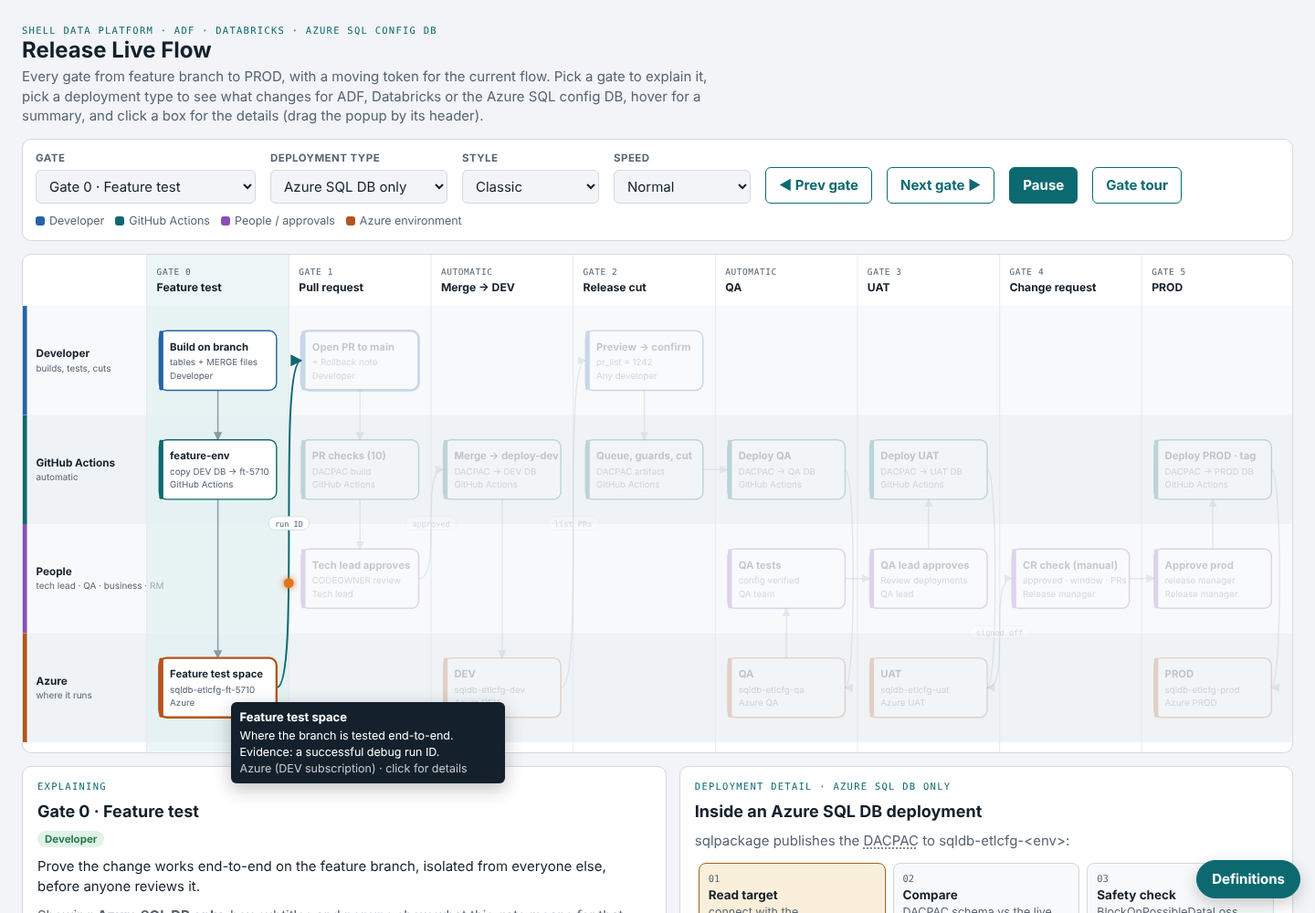
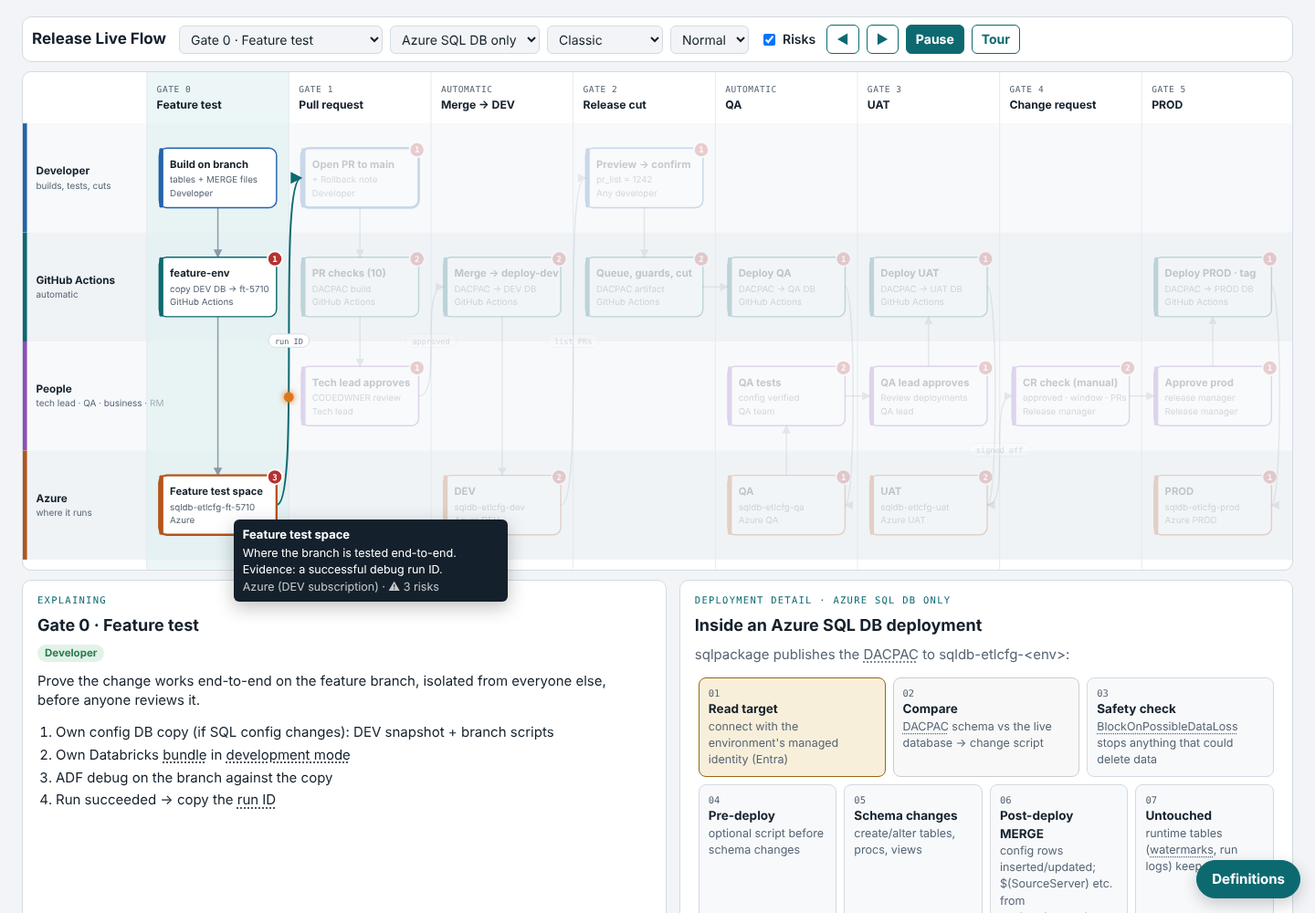
Live Flow: slim sticky control bar, risk layer and risk register
- One-line control bar; removed instructional text
- Risk badges on boxes; risks shown in popups; register of 33 risks filtered by gate and deployment type
  (what goes wrong, who waits, signal, prevent, fix fast, Decided/Proposed/Open)
- 'Who waits on whom' table and a playbook for unforeseen issues

Claude-Session: https://claude.ai/code/session_01T7iXQu7f6WF4FeQnuXfwTu

diff --git a/live-flow/index.html b/live-flow/index.html
@@ -43,19 +43,24 @@
 *{box-sizing:border-box}
 [hidden]{display:none!important}
 body{background:var(--bg);color:var(--ink);font-family:var(--f-body);font-size:15px;line-height:1.45;
-  padding-left:max(16px,env(safe-area-inset-left,0px));padding-right:max(16px,env(safe-area-inset-right,0px));padding-block:18px 90px}
+  padding-left:max(16px,env(safe-area-inset-left,0px));padding-right:max(16px,env(safe-area-inset-right,0px));padding-block:10px 90px}
+body::before{content:"";position:fixed;inset:0 0 auto;height:env(safe-area-inset-top,0px);z-index:21;background:var(--bg)}
 h1,h2,h3{font-family:var(--f-display);margin:0;line-height:1.15;text-wrap:balance}
 h1{font-size:24px} h2{font-size:18px} h3{font-size:15px}
 button,select{font:inherit;color:inherit}
 :focus-visible{outline:2px solid var(--accent);outline-offset:2px}
-.wrap{max-width:1560px;margin:0 auto;display:grid;gap:14px}
+.wrap{max-width:1560px;margin:0 auto;display:grid;gap:10px}
 .wrap>*{min-width:0}
 .eb{font-family:var(--f-mono);font-size:10.5px;letter-spacing:.12em;text-transform:uppercase;color:var(--accent)}
 .lede{color:var(--muted);margin:4px 0 0;max-width:80ch}
 .mono{font-family:var(--f-mono);font-size:.86em}
 
 /* controls */
-.controls{display:flex;flex-wrap:wrap;gap:10px 16px;align-items:end;background:var(--surface);border:1px solid var(--line);border-radius:10px;padding:12px 14px}
+.controls{display:flex;flex-wrap:wrap;gap:8px;align-items:center;background:var(--surface);border:1px solid var(--line);border-radius:10px;padding:8px 10px;position:sticky;top:env(safe-area-inset-top,0px);z-index:20}
+.controls h1{font-size:17px;margin-right:6px;white-space:nowrap}
+.controls select{min-width:0;padding:5px 8px;font-size:14px}
+.btn.sm{padding:5px 10px;font-size:14px}
+.tog{display:flex;gap:5px;align-items:center;font-size:14px;font-weight:600;padding:0 4px}
 .ctl{display:grid;gap:4px}
 .ctl label{font-size:11.5px;font-weight:700;color:var(--muted);letter-spacing:.04em;text-transform:uppercase}
 select{border:1px solid var(--line);background:var(--bg);border-radius:6px;padding:7px 10px;min-width:150px}
@@ -137,30 +142,37 @@ abbr.g{text-decoration:underline dotted;text-underline-offset:3px;cursor:help}
 .def{border-bottom:1px solid var(--line);padding-bottom:8px}
 .def b{font-family:var(--f-display);font-size:14px}
 .def p{margin:2px 0 0;font-size:13.5px;color:var(--muted)}
+.rbadge{cursor:pointer}
+.rbadge circle{fill:var(--bad);stroke:var(--surface);stroke-width:2}
+.rbadge text{font-family:var(--f-mono);font-size:10px;font-weight:700;fill:#fff;text-anchor:middle}
+.risks-off .rbadge{display:none}
+.rgrid{display:grid;grid-template-columns:repeat(auto-fill,minmax(300px,1fr));gap:10px}
+.risk{border:1px solid var(--line);border-left:4px solid var(--bad);border-radius:8px;padding:10px 12px;display:grid;gap:6px;background:var(--lane);font-size:13.5px}
+.risk h3{font-size:14.5px;display:flex;gap:8px;align-items:baseline;flex-wrap:wrap}
+.risk .rid{font-family:var(--f-mono);font-size:11px;color:var(--muted)}
+.risk dl{display:grid;grid-template-columns:auto 1fr;gap:3px 10px;margin:0}
+.risk dt{font-weight:700;color:var(--muted);font-size:12px;text-transform:uppercase;letter-spacing:.04em;padding-top:1px}
+.risk dd{margin:0} .risk ul{margin:0;padding-left:16px}
+.pill.open{background:var(--bad-bg);color:var(--bad)} .pill.prop{background:var(--warn-bg);color:var(--warn)} .pill.dec{background:var(--ok-bg);color:var(--ok)}
+.twocol{display:grid;grid-template-columns:minmax(0,1fr) minmax(0,1fr);gap:12px}
+@media (max-width:900px){.twocol{grid-template-columns:1fr}}
+table.w{width:100%;border-collapse:collapse;font-size:13.5px} table.w th{text-align:left;font-size:11px;text-transform:uppercase;letter-spacing:.05em;color:var(--muted);padding:5px;border-bottom:1px solid var(--line)} table.w td{padding:6px 5px;border-bottom:1px solid var(--line);vertical-align:top}
+.rfilter{display:flex;gap:8px;flex-wrap:wrap;align-items:center}
 @media (prefers-reduced-motion: reduce){*{transition:none!important}}
 </style>
 
 <div class="wrap">
-  <header>
-    <div class="eb">Shell data platform · ADF · Databricks · Azure SQL config DB</div>
-    <h1>Release Live Flow</h1>
-    <p class="lede">Every gate from feature branch to PROD, with a moving token for the current flow. Pick a gate to explain it, pick a deployment type to see what changes for ADF, Databricks or the Azure SQL config DB, hover for a summary, and click a box for the details (drag the popup by its header).</p>
-  </header>
-
   <div class="controls" role="group" aria-label="View options">
-    <div class="ctl"><label for="gateSel">Gate</label><select id="gateSel"></select></div>
-    <div class="ctl"><label for="typeSel">Deployment type</label>
-      <select id="typeSel"><option value="all">All three (full release)</option><option value="adf">ADF only</option><option value="dbx">Databricks only</option><option value="sql">Azure SQL DB only</option></select></div>
-    <div class="ctl"><label for="styleSel">Style</label>
-      <select id="styleSel"><option value="classic">Classic</option><option value="blueprint">Blueprint</option><option value="contrast">High contrast</option></select></div>
-    <div class="ctl"><label for="speedSel">Speed</label>
-      <select id="speedSel"><option value="0.6">Slow</option><option value="1" selected>Normal</option><option value="1.8">Fast</option></select></div>
-    <button class="btn ghost" id="prevBtn" title="Previous gate">◀ Prev gate</button>
-    <button class="btn ghost" id="nextBtn" title="Next gate">Next gate ▶</button>
-    <button class="btn" id="playBtn">Pause</button>
-    <button class="btn ghost" id="tourBtn" title="Walk through every gate automatically">Gate tour</button>
-    <div class="spacer"></div>
-    <div class="legend"><span><i style="background:var(--dev)"></i>Developer</span><span><i style="background:var(--auto)"></i>GitHub Actions</span><span><i style="background:var(--ppl)"></i>People / approvals</span><span><i style="background:var(--env)"></i>Azure environment</span></div>
+    <h1>Release Live Flow</h1>
+    <select id="gateSel" aria-label="Gate"></select>
+    <select id="typeSel" aria-label="Deployment type"><option value="all">All three</option><option value="adf">ADF only</option><option value="dbx">Databricks only</option><option value="sql">Azure SQL DB only</option></select>
+    <select id="styleSel" aria-label="Style"><option value="classic">Classic</option><option value="blueprint">Blueprint</option><option value="contrast">High contrast</option></select>
+    <select id="speedSel" aria-label="Speed"><option value="0.6">Slow</option><option value="1" selected>Normal</option><option value="1.8">Fast</option></select>
+    <label class="tog"><input type="checkbox" id="riskTog" checked> Risks</label>
+    <button class="btn ghost sm" id="prevBtn" title="Previous gate" aria-label="Previous gate">◀</button>
+    <button class="btn ghost sm" id="nextBtn" title="Next gate" aria-label="Next gate">▶</button>
+    <button class="btn sm" id="playBtn">Pause</button>
+    <button class="btn ghost sm" id="tourBtn">Tour</button>
   </div>
 
   <div class="canvas"><svg id="flow" role="img" aria-label="Release flow swimlane diagram"></svg></div>
@@ -169,6 +181,7 @@ abbr.g{text-decoration:underline dotted;text-underline-offset:3px;cursor:help}
     <section class="panel" aria-live="polite" id="explain"></section>
     <section class="panel" id="inside"></section>
   </div>
+  <section class="panel" id="risks"></section>
 </div>
 
 <div class="tip" id="tip" hidden></div>
@@ -360,7 +373,7 @@ const PATH = ["build","fenv","fspace","pr","checks","lead","merge","devenv","cut
 const EDGE_LABEL = {"build>fenv":"push","fenv>fspace":"ready","fspace>pr":"run ID","pr>checks":"validate","checks>lead":"green","lead>merge":"approved","merge>devenv":"deploy","devenv>cutreq":"list PRs","cutreq>cut":"confirm","cut>qadeploy":"auto","qadeploy>qaenv":"deploy","qaenv>qatest":"test","qatest>uatok":"passed","uatok>uatdeploy":"approved","uatdeploy>uatenv":"deploy","uatenv>cr":"signed off","cr>prodok":"checked","prodok>proddeploy":"approved","proddeploy>prodenv":"deploy"};
 
 const GATES = [
- {id:"all", label:"All gates (overview)", stages:STAGES.map(s=>s.id), who:"Everyone",
+ {id:"all", label:"All gates", stages:STAGES.map(s=>s.id), who:"Everyone",
   sum:"From a developer's branch to PROD: test on the branch, review the PR, merge to DEV, cut a release from chosen PRs, QA automatically, UAT on the QA lead's approval, a manual CR check, and the release manager's PROD approval.",
   checks:["Gate 0 Feature test: own test space, successful debug run","Gate 1 PR: ten checks + tech lead","Merge → DEV automatic","Gate 2 Cut: queue, guards, validations, build once","QA automatic, no approval","Gate 3 UAT: QA lead approval, business sign-off","Gate 4 CR: checked by hand","Gate 5 PROD: release manager approval, tag"]},
  {id:"g0", label:"Gate 0 · Feature test", stages:["g0"], who:"Developer",
@@ -457,7 +470,8 @@ function draw(){
       <text class="t" x="${x+13}" y="${y+24}">${esc(n.title)}</text>
       <text class="s" x="${x+13}" y="${y+42}" data-sub="1"></text>
       <text class="s" x="${x+13}" y="${y+58}" data-who="1">${esc(n.who.replace(/ \(.*\)$/,"").length>23?n.who.replace(/ \(.*\)$/,"").slice(0,22)+"…":n.who.replace(/ \(.*\)$/,""))}</text>
-      <circle class="pulse" cx="${x+NW/2}" cy="${y+NH/2}" r="${NW/2}"/></g>`;
+      <circle class="pulse" cx="${x+NW/2}" cy="${y+NH/2}" r="${NW/2}"/>
+      <g class="rbadge" data-node="${n.id}" aria-hidden="true"><circle cx="${x+NW-2}" cy="${y+2}" r="9"/><text x="${x+NW-2}" y="${y+5.5}" data-cnt="1"></text></g></g>`;
   });
   h+=`<circle class="token" id="token" r="6" cx="-20" cy="-20"/>`;
   svg.innerHTML=h;
@@ -487,7 +501,7 @@ function apply(){
     const e=document.getElementById("e_"+i); e.classList.toggle("dim",!on);
     const lb=document.querySelector(`.elabel[data-e="${i}"]`); if(lb) lb.style.opacity = on?1:.2;
   }
-  renderExplain(gate); renderInside();
+  renderExplain(gate); renderInside(); renderRisks(gate); updateBadges();
   // restrict token loop to the gate's edges
   st.loop = edgesFor(gate); if(!st.loop.includes(st.idx)){ st.idx=st.loop[0]; st.t=0; }
 }
@@ -499,7 +513,7 @@ function edgesFor(gate){
 }
 const TYPE_NAME={all:"all three",adf:"ADF only",dbx:"Databricks only",sql:"Azure SQL DB only"};
 function renderExplain(g){
-  const extra = st.type==="all" ? "" : `<p style="margin:0" class="lede">Showing <b>${TYPE_NAME[st.type]}</b>: box subtitles and popups show what this gate means for that deployment type.</p>`;
+  const extra="";
   $("#explain").innerHTML=`<div class="eb">${g.id==="all"?"Overview":"Explaining"}</div><h2>${esc(g.label)}</h2>
    <div class="who"><span class="pill ok">${esc(g.who)}</span></div>
    <p style="margin:0">${gloss(esc(g.sum))}</p>${extra}
@@ -527,6 +541,41 @@ function gloss(html){
   return out;
 }
 
+/* ============ risks ============ */
+const riskApplies = r => st.type==="all" || r.types.includes(st.type) || r.types.includes("all") && st.type==="all";
+const riskForType = r => st.type==="all" ? true : r.types.includes(st.type);
+const SP_CLS={Decided:"dec",Proposed:"prop",Open:"open"};
+function riskCard(r){
+  return `<article class="risk"><h3><span class="rid">${r.id}</span>${esc(r.title)} <span class="pill ${SP_CLS[r.status]}">${r.status}</span></h3>
+   <p style="margin:0">${gloss(esc(r.what))}</p>
+   <dl><dt>Who waits</dt><dd>${esc(r.wait)}</dd><dt>Signal</dt><dd>${esc(r.signal)}</dd>
+   <dt>Prevent</dt><dd><ul>${r.prevent.map(x=>`<li>${gloss(esc(x))}</li>`).join("")}</ul></dd>
+   <dt>Fix fast</dt><dd><ul>${r.fix.map(x=>`<li>${gloss(esc(x))}</li>`).join("")}</ul></dd></dl></article>`;
+}
+function riskHtmlForNode(id){
+  if(!$("#riskTog").checked) return "";
+  const rs=RISKS.filter(r=>r.node===id && riskForType(r));
+  if(!rs.length) return "";
+  return `<div><b>What can go wrong here (${rs.length})</b>${rs.map(r=>`<div style="margin-top:8px">${riskCard(r)}</div>`).join("")}</div>`;
+}
+function updateBadges(){
+  const on=$("#riskTog").checked; svg.classList.toggle("risks-off",!on);
+  N.forEach(n=>{ const c=RISKS.filter(r=>r.node===n.id && riskForType(r)).length; const g=document.querySelector(`.rbadge[data-node="${n.id}"]`); if(!g) return; g.style.display = c&&on? "":"none"; g.querySelector("[data-cnt]").textContent=c; });
+}
+function renderRisks(gate){
+  const box=$("#risks"); if(!$("#riskTog").checked){ box.hidden=true; return; } box.hidden=false;
+  const stages=new Set(gate.stages);
+  const rs=RISKS.filter(r=>riskForType(r) && (gate.id==="all" || stages.has(STAGES[byId[r.node].s].id)));
+  const counts={Open:0,Proposed:0,Decided:0}; rs.forEach(r=>counts[r.status]++);
+  const head=`<div class="rfilter"><h2 style="margin-right:auto">What can go wrong${gate.id==="all"?"":" · "+esc(gate.label)} · ${TYPE_NAME[st.type]}</h2>
+    <span class="pill open">${counts.Open} open</span><span class="pill prop">${counts.Proposed} proposed</span><span class="pill dec">${counts.Decided} decided</span></div>`;
+  const extra = gate.id==="all" ? `<div class="twocol">
+     <div><h3 style="margin-bottom:6px">Who waits on whom</h3><table class="w"><thead><tr><th>Wait</th><th>Cause</th><th>Avoid it</th></tr></thead><tbody>${WAITS.map(w=>`<tr><td><b>${esc(w[0])}</b></td><td>${esc(w[1])}</td><td>${gloss(esc(w[2]))}</td></tr>`).join("")}</tbody></table></div>
+     <div><h3 style="margin-bottom:6px">When something unforeseen happens</h3><ol>${PLAYBOOK.map(p=>`<li><b>${esc(p[0])}.</b> ${gloss(esc(p[1]))}</li>`).join("")}</ol></div></div>` : "";
+  box.innerHTML = head + extra + (rs.length? `<div class="rgrid">${rs.map(riskCard).join("")}</div>` : `<p class="lede">No risks recorded for this gate and type.</p>`);
+}
+svg.addEventListener("click", e=>{ const b=e.target.closest(".rbadge"); if(b){ e.stopPropagation(); const n=byId[b.dataset.node]; openPop(n, document.getElementById("n_"+n.id)); setTimeout(()=>{ const t=[...document.querySelectorAll("#popBody b")].find(x=>x.textContent.startsWith("What can go wrong")); if(t) t.scrollIntoView({block:"start"}); },30); } }, true);
+
 /* ============ animation ============ */
 let last=0;
 function frame(ts){
@@ -550,7 +599,8 @@ const tip=$("#tip"), pop=$("#pop");
 svg.addEventListener("pointermove", e=>{
   const g=e.target.closest(".node"); if(!g){ tip.hidden=true; return; }
   const n=byId[g.dataset.id];
-  tip.innerHTML=`<b>${esc(n.title)}</b>${esc(n.tip)}<br><span style="opacity:.75">${esc(n.who)} · click for details</span>`;
+  const rc=$("#riskTog").checked? RISKS.filter(r=>r.node===n.id && riskForType(r)).length : 0;
+  tip.innerHTML=`<b>${esc(n.title)}</b>${esc(n.tip)}<br><span style="opacity:.75">${esc(n.who)}${rc?` · ⚠ ${rc} risk${rc>1?"s":""}`:""}</span>`;
   tip.hidden=false;
   const x=Math.min(e.clientX+14, innerWidth-tip.offsetWidth-10), y=Math.min(e.clientY+16, innerHeight-tip.offsetHeight-10);
   tip.style.left=x+"px"; tip.style.top=y+"px";
@@ -565,6 +615,7 @@ function openPop(n, g){
   $("#popBody").innerHTML=`<dl class="kv"><dt>Stage</dt><dd>${stage.head} · ${esc(stage.title)}</dd><dt>Who</dt><dd>${esc(n.who)}</dd><dt>Type</dt><dd>${TYPE_NAME[st.type]}</dd></dl>
     <div><b>What happens</b><ul>${n.d.all.map(x=>`<li>${gloss(esc(x))}</li>`).join("")}</ul></div>
     ${typed?`<div><b>For ${TYPE_NAME[st.type]}</b><ul>${n.d[st.type].map(x=>`<li>${gloss(esc(x))}</li>`).join("")}</ul></div>`:""}
+    ${riskHtmlForNode(n.id)}
     ${st.type==="all"?Object.entries({adf:"ADF",dbx:"Databricks",sql:"Azure SQL DB"}).filter(([k])=>n.d[k]).map(([k,l])=>`<div><b>${l}</b><ul>${n.d[k].map(x=>`<li>${gloss(esc(x))}</li>`).join("")}</ul></div>`).join(""):""}`;
   pop.hidden=false;
   if(!pop.dataset.moved){
@@ -603,6 +654,7 @@ $("#gateSel").addEventListener("change", e=>{ stopTour(); st.gate=e.target.value
 $("#typeSel").addEventListener("change", e=>{ st.type=e.target.value; apply(); if(!pop.hidden){ const n=byId[$("#popTitle").dataset.id||""]; } });
 $("#styleSel").addEventListener("change", e=>{ const v=e.target.value; if(v==="classic") document.documentElement.removeAttribute("data-style"); else document.documentElement.setAttribute("data-style",v); try{ localStorage.setItem("lf-style",v); }catch(err){} });
 $("#speedSel").addEventListener("change", e=>{ st.speed=+e.target.value; renderInside(); });
+$("#riskTog").addEventListener("change", ()=>apply());
 $("#playBtn").addEventListener("click", ()=>{ st.playing=!st.playing; $("#playBtn").textContent=st.playing?"Pause":"Play"; renderInside(); });
 function stepGate(d){ const i=GATES.findIndex(g=>g.id===st.gate); const j=Math.max(0,Math.min(GATES.length-1,i+d)); st.gate=GATES[j].id; $("#gateSel").value=st.gate; apply(); }
 $("#prevBtn").addEventListener("click", ()=>{ stopTour(); stepGate(-1); });
@@ -615,6 +667,182 @@ $("#tourBtn").addEventListener("click", ()=>{
   st.tour=setInterval(()=>{ const i=GATES.findIndex(g=>g.id===st.gate); if(i>=GATES.length-1){ stopTour(); st.gate="all"; $("#gateSel").value="all"; apply(); return; } stepGate(1); }, 7000/st.speed);
 });
 try{ const sv=localStorage.getItem("lf-style"); if(sv && sv!=="classic"){ document.documentElement.setAttribute("data-style",sv); $("#styleSel").value=sv; } }catch(e){}
+
+/* ============ risk register (negative analysis) ============ */
+/* node: where it shows; types: which deployment types it applies to; wait: who ends up waiting on whom;
+   signal: how you notice; prevent; fix: how to recover fast; status: Decided | Proposed | Open */
+const RISKS = [
+ {id:"R01", node:"fenv", types:["sql"], title:"Feature DB copy fails",
+  what:"The copy can't be created: elastic pool full, quota reached, or the SQL server is unreachable.",
+  wait:"Developer is stuck at Gate 0 and can't test.", signal:"feature-env run fails at 'az sql db copy'.",
+  prevent:["Nightly cleanup of stale copies","Alert when the pool passes 80%","Cap copies per developer"],
+  fix:["Drop stale ft-* copies, re-run feature-env","If the server is down, test ADF-only parts and retry"], status:"Proposed"},
+ {id:"R02", node:"fspace", types:["sql","adf"], title:"Stale feature copy gives a false pass",
+  what:"The copy is a snapshot. On a long-lived branch it misses config merged since, so tests pass on old data and fail after merge.",
+  wait:"Nobody at first; later the whole team, if DEV breaks.", signal:"deploy-dev or DEV runs fail after a 'tested' PR merges.",
+  prevent:["Re-run feature-env before opening the PR","PR check warns if the copy is older than 5 days"],
+  fix:["Refresh the copy, re-test, push a fix PR"], status:"Proposed"},
+ {id:"R03", node:"fspace", types:["sql","adf"], title:"Test loads zero rows (watermark copied)",
+  what:"The copy carries DEV's current watermarks, so an incremental pipeline finds nothing new and 'succeeds' without testing anything.",
+  wait:"QA later, when the real load fails.", signal:"Debug run succeeds with 0 rows copied.",
+  prevent:["Feature-testing guide: reset the watermark in the copy","PR template asks for rows loaded"],
+  fix:["Reset the watermark in the copy, re-run debug"], status:"Decided"},
+ {id:"R04", node:"fspace", types:["all","adf","dbx","sql"], title:"Feature runs collide in shared DEV storage",
+  what:"If debug runs write to the same DEV lake paths or tables, developers overwrite each other's results and DEV's.",
+  wait:"Developers wait on each other; DEV data becomes unreliable.", signal:"Unexpected data in DEV tables; tests pass or fail at random.",
+  prevent:["Per-branch output folder (…/_feature/<story>/) and dev_<user> schema as pipeline parameters"],
+  fix:["Re-run DEV loads from source after cleanup"], status:"Open"},
+ {id:"R05", node:"build", types:["all","adf"], title:"Two developers edit the same pipeline",
+  what:"Two branches change the same ADF pipeline JSON. The second PR conflicts, and later the second can't be released without the first.",
+  wait:"Developer B waits for A's PR to merge and then to be released.", signal:"PR shows conflicts; cut names A's PR as missing.",
+  prevent:["One story per pipeline at a time (check the board)","CODEOWNERS per pipeline folder","Split large pipelines; small PRs"],
+  fix:["B rebases after A merges; release A and B together"], status:"Decided"},
+ {id:"R06", node:"fspace", types:["dbx"], title:"Leftover dev-mode Databricks jobs",
+  what:"Developers forget to remove their [dev user] jobs and schemas; cost and clutter grow, old jobs keep running on schedules.",
+  wait:"Nobody, but cost and noise grow.", signal:"Many [dev …] jobs in the DEV workspace.",
+  prevent:["Pause schedules in development mode","feature-cleanup runs bundle destroy on PR close"],
+  fix:["databricks bundle destroy -t dev for stale branches"], status:"Proposed"},
+ {id:"R07", node:"devenv", types:["all","adf","dbx","sql"], title:"DEV broken by a merge",
+  what:"A merged PR breaks DEV. Every new feature copy is taken from DEV, so everyone's Gate 0 testing inherits the break.",
+  wait:"The whole team.", signal:"deploy-dev red, or DEV runs failing after a merge.",
+  prevent:["Gate 1 checks and real feature testing","DEV failures are the team's top priority"],
+  fix:["Fix forward within hours, otherwise revert the PR (revert rule: breaks DEV)"], status:"Decided"},
+ {id:"R08", node:"lead", types:["all","adf","dbx","sql"], title:"Tech lead review bottleneck",
+  what:"One reviewer, many PRs, or the reviewer is away. PRs pile up and age, and conflicts grow.",
+  wait:"Developers wait on the tech lead.", signal:"PRs open longer than a day.",
+  prevent:["Two or more CODEOWNERS per area (backup)","Review within one working day","Small PRs"],
+  fix:["Backup reviewer approves; pair review for urgent PRs"], status:"Open"},
+ {id:"R09", node:"checks", types:["adf"], title:"Run ID expired or not found",
+  what:"ADF keeps debug run history for a limited time; an old run ID can't be verified.",
+  wait:"Developer re-runs the test.", signal:"Check 3 fails: run not found.",
+  prevent:["Open the PR soon after testing"], fix:["Re-run ADF debug, update Feature-Test-Run"], status:"Decided"},
+ {id:"R10", node:"pr", types:["all","adf","dbx","sql"], title:"Up-to-date churn",
+  what:"'Up to date with main' means every merge forces other open PRs to update and re-run checks. With many PRs this becomes a loop.",
+  wait:"Developers wait on each other's merges.", signal:"PRs repeatedly 'out of date'.",
+  prevent:["GitHub merge queue (available on Enterprise)","Small PRs, merge in order"], fix:["Use the merge queue"], status:"Proposed"},
+ {id:"R11", node:"checks", types:["all","adf","dbx","sql"], title:"Wrong environment value slips through",
+  what:"A hardcoded server name or path the scan doesn't recognise reaches QA or PROD and points at the wrong system.",
+  wait:"Testers, or PROD users.", signal:"QA reads from the DEV source; odd data in QA/PROD.",
+  prevent:["All environment values in settings/<env>.json","Settings keys must match across environments","Scan patterns for server/storage names"],
+  fix:["Hotfix PR moving the value into settings; redeploy"], status:"Decided"},
+ {id:"R12", node:"checks", types:["sql"], title:"Data-deleting schema change",
+  what:"Dropping or narrowing a column or table. BlockOnPossibleDataLoss stops the deploy in DEV, QA or PROD.",
+  wait:"Release stops at the first environment that has data.", signal:"sqlpackage error: possible data loss.",
+  prevent:["Explicit migration script reviewed in the PR","Separate approval for destructive changes"],
+  fix:["Add a migration/backout script; re-run the deploy"], status:"Proposed"},
+ {id:"R13", node:"merge", types:["all","adf","dbx","sql"], title:"deploy-dev fails after merge",
+  what:"main and DEV are out of sync: an ARM error, bundle error or blocked DACPAC.",
+  wait:"Everyone whose testing depends on DEV.", signal:"deploy-dev red.",
+  prevent:["Same build steps run in the PR checks"], fix:["Fix forward immediately; revert if not fixed same day"], status:"Decided"},
+ {id:"R14", node:"devenv", types:["all","adf","dbx","sql"], title:"main drifts far ahead of PROD",
+  what:"Many merged but unreleased PRs. DEV no longer resembles PROD, and releases get harder to cut cleanly.",
+  wait:"Release cuts start failing on dependencies.", signal:"Long list of unreleased PRs; frequent cut conflicts.",
+  prevent:["Release small and often","Weekly report: PRs merged more than 10 days ago, not released"],
+  fix:["Release dependent PRs together; revert abandoned ones"], status:"Proposed"},
+ {id:"R15", node:"cut", types:["all","adf","dbx","sql"], title:"Queue held: nobody else can cut",
+  what:"One release is in progress, so every other developer's cut is refused until it ships or is dropped.",
+  wait:"All developers wait on the release in QA/UAT.", signal:"Cut refused, naming the release in progress.",
+  prevent:["Release small and often","Time limit in QA/UAT, then ship or drop","Announce cuts in the team channel; combine PRs"],
+  fix:["Release manager drops a stalled release; re-cut"], status:"Open"},
+ {id:"R16", node:"cut", types:["all","adf","dbx","sql"], title:"Dependency chain blocks good PRs",
+  what:"A ready PR touches the same files as an earlier, unreleased PR that isn't ready. The cut stops.",
+  wait:"Developer waits on another developer's PR.", signal:"Cut names the missing PR.",
+  prevent:["One story per pipeline / config key","One MERGE file per key","Release dependent PRs together"],
+  fix:["Add the PR, wait for it, or revert it if abandoned"], status:"Decided"},
+ {id:"R17", node:"cut", types:["adf"], title:"Cut passes but build fails",
+  what:"A pipeline references a dataset or linked service added by an unlisted PR; no shared files, so the cut doesn't see it.",
+  wait:"Release cutter.", signal:"ARM export or ADF validate fails on the release branch.",
+  prevent:["Run ADF validate on the release branch before deploying QA"], fix:["Add the missing PR; re-cut"], status:"Proposed"},
+ {id:"R18", node:"cutreq", types:["all","adf","dbx","sql"], title:"Wrong PRs listed",
+  what:"Mistyped number or a teammate's PR included by accident.",
+  wait:"Nobody if caught.", signal:"Preview shows an unexpected title or author.",
+  prevent:["Preview before cut","Ownership warning"], fix:["Correct the list; re-preview"], status:"Decided"},
+ {id:"R19", node:"qadeploy", types:["all","adf","dbx","sql"], title:"QA deploy fails part-way",
+  what:"SQL deployed but Databricks or ADF failed, so QA is in a mixed state.",
+  wait:"QA team; the queue is held.", signal:"deploy-qa red at one step.",
+  prevent:["Same build steps already ran in DEV"],
+  fix:["Re-run the deploy (all steps are safe to repeat)","If it's a code problem, drop and re-cut"], status:"Open"},
+ {id:"R20", node:"qatest", types:["all","adf","dbx","sql"], title:"Test source or data unavailable",
+  what:"The QA source system or test data is down, so testing can't proceed.",
+  wait:"QA, and everyone behind the queue.", signal:"QA reports environment issues.",
+  prevent:["Check sources before cutting","Agree QA data refresh times"],
+  fix:["Pause the release clock; escalate to the source owner"], status:"Open"},
+ {id:"R21", node:"qatest", types:["all","adf","dbx","sql"], title:"Story fails QA",
+  what:"Drop, label, re-cut the passing PRs, and test again. The more PRs in the release, the more re-testing.",
+  wait:"Every developer in that release, plus the queue.", signal:"QA fails a story.",
+  prevent:["Strong Gate 0 testing","Smaller releases"],
+  fix:["drop-release → re-cut passing PRs → fix PR for the failed one"], status:"Decided"},
+ {id:"R22", node:"qaenv", types:["all","adf","dbx","sql"], title:"Manual change in QA/UAT",
+  what:"Someone edits a config row or pipeline by hand. Tests pass on something that isn't in Git; the next deploy overwrites it.",
+  wait:"QA re-tests.", signal:"Behaviour differs from what's in the release.",
+  prevent:["No write access for people in QA/UAT/PROD","All changes through PRs"], fix:["Redeploy the release; make the change through a PR"], status:"Decided"},
+ {id:"R23", node:"uatok", types:["all","adf","dbx","sql"], title:"Approver unavailable",
+  what:"The QA lead (UAT approval) or release manager (PROD approval) is away.",
+  wait:"The release, and the queue behind it.", signal:"Run waiting for review.",
+  prevent:["At least two named approvers per environment"], fix:["Backup approver approves"], status:"Open"},
+ {id:"R24", node:"uatenv", types:["all","adf","dbx","sql"], title:"Business sign-off slow",
+  what:"Business users are busy; UAT stretches over days or weeks.",
+  wait:"Everyone behind the queue.", signal:"Release in UAT longer than planned.",
+  prevent:["Book the UAT slot when the release is cut","Time limit, then ship the signed-off part or drop"],
+  fix:["Release manager decides: wait, ship, or drop"], status:"Open"},
+ {id:"R25", node:"uatdeploy", types:["all","adf","dbx","sql"], title:"Approval expires after 30 days",
+  what:"GitHub fails a job that waits more than 30 days for approval.",
+  wait:"Release manager re-runs.", signal:"Run failed: approval timeout.",
+  prevent:["Time limit well under 30 days"], fix:["Re-run the job from the same build (no rebuild)"], status:"Decided"},
+ {id:"R26", node:"uatenv", types:["all","adf","dbx","sql"], title:"Story fails UAT late",
+  what:"The most expensive failure: drop, re-cut, back through QA and UAT.",
+  wait:"Everyone in the release and behind the queue.", signal:"Business rejects a story.",
+  prevent:["Show business the change early (demo in QA)","Clear acceptance criteria on the story"],
+  fix:["Same as a QA failure"], status:"Decided"},
+ {id:"R27", node:"cr", types:["all","adf","dbx","sql"], title:"CR approval slow or window far away",
+  what:"The release is signed off but waits for CR approval or its change window, still holding the queue.",
+  wait:"Everyone behind the queue.", signal:"Release ready, deploy-prod not started.",
+  prevent:["Raise the CR at the start of UAT","Know the change calendar and freezes"],
+  fix:["Decide: hold the queue, or let the next release start QA (option to agree)"], status:"Open"},
+ {id:"R28", node:"cr", types:["all","adf","dbx","sql"], title:"CR doesn't match the release",
+  what:"The CR lists different PRs, or the wrong release ID.", wait:"Release manager.", signal:"Manual check finds a mismatch.",
+  prevent:["Paste the generated CR text"], fix:["Correct the CR before PROD"], status:"Decided"},
+ {id:"R29", node:"proddeploy", types:["all","adf","dbx","sql"], title:"PROD deploy fails part-way",
+  what:"Some components updated, some not; PROD in a mixed state during business hours.",
+  wait:"Business users.", signal:"deploy-prod red at a step.",
+  prevent:["Same build already deployed to QA and UAT","Deploy in the change window"],
+  fix:["Re-run the failed step (safe to repeat)","Or redeploy the previous prod/* build","SQL data changes need the backout script"], status:"Open"},
+ {id:"R30", node:"prodok", types:["all","adf","dbx","sql"], title:"Hotfix needed while a release is in progress",
+  what:"PROD is broken but the queue holds another release.",
+  wait:"PROD users; the in-progress release.", signal:"Incident raised.",
+  prevent:["n/a"], fix:["Option A: drop the release, ship the hotfix, re-cut","Option B: hotfix path that skips the queue; the in-progress release then re-cuts (stale-baseline check)"], status:"Open"},
+ {id:"R31", node:"prodenv", types:["all","adf","dbx"], title:"Jobs running during deploy",
+  what:"Stopping ADF triggers or redeploying jobs while loads run can leave partial loads.",
+  wait:"Data consumers.", signal:"Failed or partial runs around deploy time.",
+  prevent:["Deploy window outside load schedules","Check for active runs before stopping triggers"], fix:["Re-run affected loads"], status:"Open"},
+ {id:"R32", node:"prodenv", types:["sql"], title:"Wrong config row in PROD",
+  what:"Pipelines read config immediately, so a bad PROD value (source server, path) breaks loads at once.",
+  wait:"Data consumers.", signal:"PROD pipeline failures right after release.",
+  prevent:["Values from settings/prod.json, reviewed in the PR","Same config pattern tested in QA/UAT"],
+  fix:["Hotfix PR with the corrected MERGE file","Or redeploy the previous build plus backout script"], status:"Decided"},
+ {id:"R33", node:"merge", types:["all","adf","dbx","sql"], title:"Access or network breaks",
+  what:"An expired identity or federated credential, runners that can't reach private endpoints, or a release-bot key expired. Every deploy stops.",
+  wait:"Everyone.", signal:"Login or connection errors in every workflow.",
+  prevent:["Daily pre-flight job that checks each environment's access","Expiry reminders for the bot key"],
+  fix:["Admin restores access; re-run"], status:"Proposed"},
+];
+const WAITS = [
+ ["Developer → tech lead","PR reviews","Two or more reviewers, one-day review target, small PRs"],
+ ["Developer → developer","Same pipeline or config key; dependency in the cut","One story per pipeline, one MERGE file per key, release dependent PRs together"],
+ ["Everyone → release in progress","Queue held during QA/UAT","Small, frequent releases; time limit; drop stalled releases"],
+ ["Everyone → QA / business","Testing and sign-off","Book UAT when cutting; demo early; clear acceptance criteria"],
+ ["Everyone → release manager / CR","CR approval and change window","Raise the CR at the start of UAT; backup approvers"],
+ ["Everyone → DEV","Broken DEV breaks every feature copy","DEV failures first; revert within the day"],
+ ["Everyone → access","Identity, network, bot key","Daily pre-flight access check"],
+];
+const PLAYBOOK = [
+ ["Stop the line","Don't cut new releases; tell the team. The queue already blocks cuts while a release is in progress."],
+ ["Contain","Drop the release, revert the PR, or pause the ADF trigger, whichever stops the damage fastest."],
+ ["Find the evidence","Workflow run, manifest (PRs, commits), ADF/Databricks run IDs, sqlpackage log."],
+ ["Recover","Re-run the failed step (all deploy steps are safe to repeat) or redeploy the last prod/* build."],
+ ["Communicate","Update the stories and the CR; one owner speaks for the incident."],
+ ["Prevent next time","Add a check, a rule or a test so it can't recur; record it in DECISIONS.md."],
+];
 
 draw(); apply(); renderDefs();
 $("#playBtn").textContent=st.playing?"Pause":"Play";
